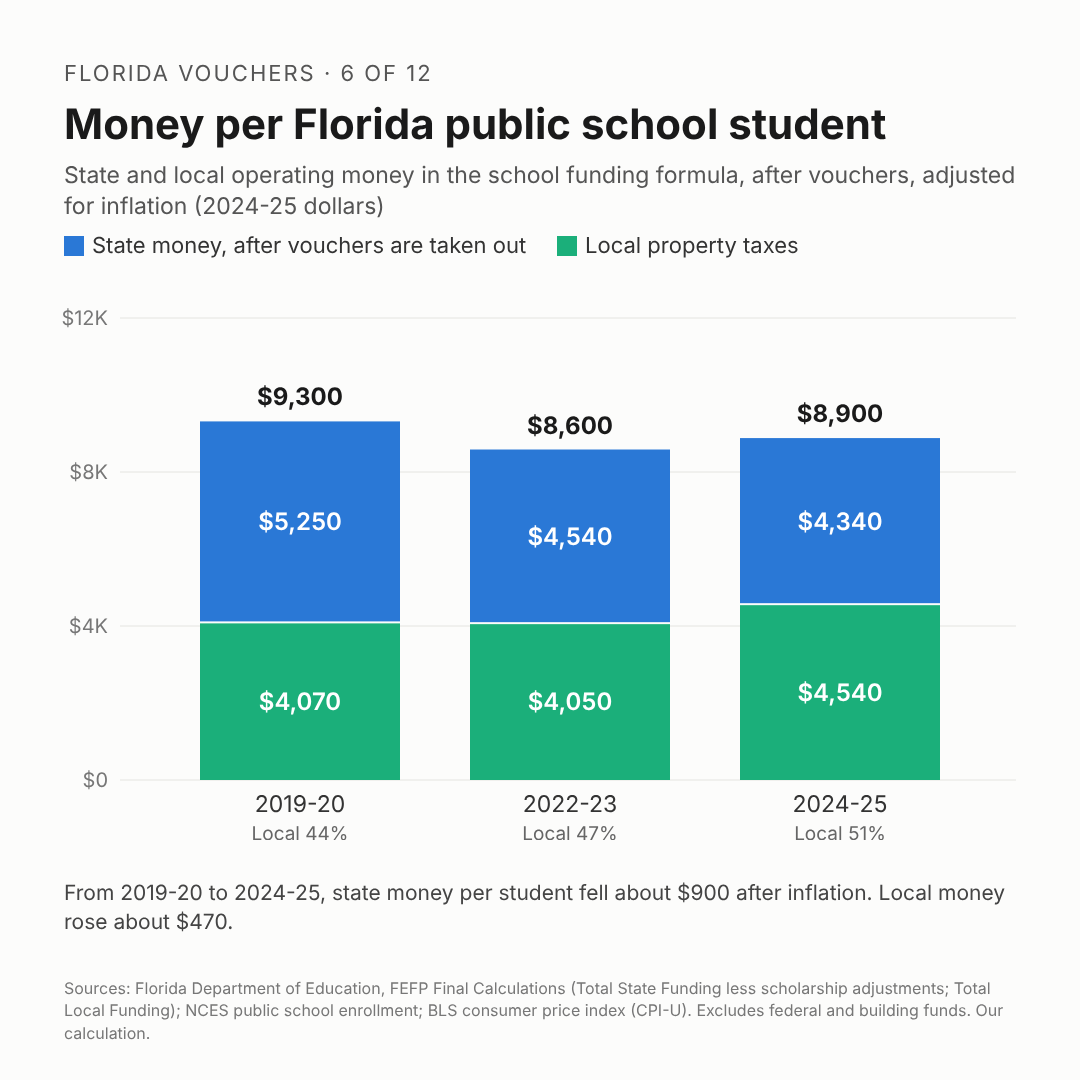
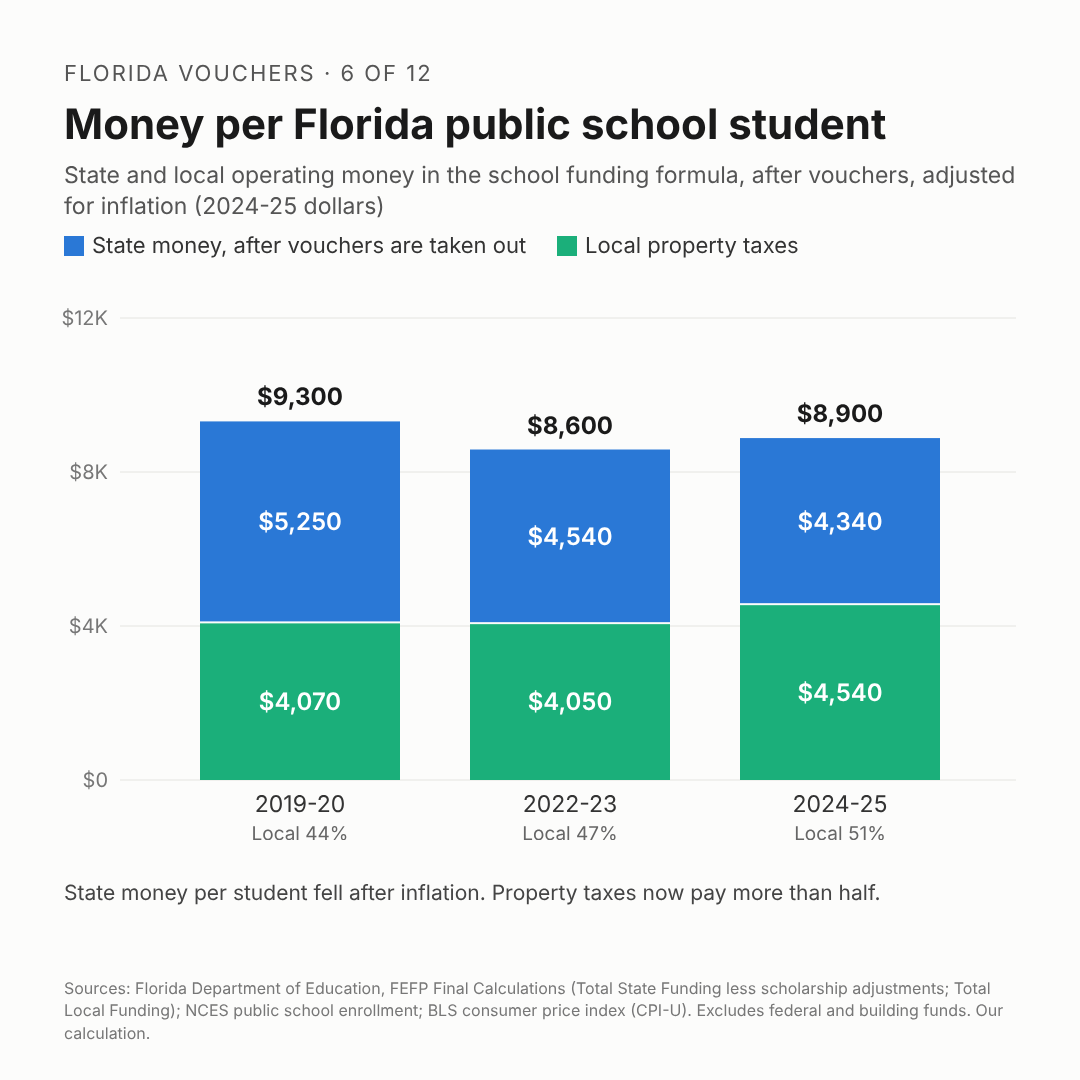
Post 6 draft 3: fewer numbers, simpler explanation
Claude-Session: https://claude.ai/code/session_016LYyWm4MBRFt2tmnYoAYw5

Changed region(s): [[0.0611, 0.7944, 0.9167, 0.8556]]

diff --git a/series/florida-vouchers/06-money-per-student/post.md b/series/florida-vouchers/06-money-per-student/post.md
@@ -4,12 +4,12 @@ series: florida-vouchers
 number: 6
 status: draft
 image: image.png
-updated: 2026-11-05
+updated: 2026-11-06
 ---
 
 # Post 6 of 12: Public schools' money per student, and the property tax backstop
 
-Draft 2, 5 Nov 2026. Rewritten around the risk at RJ's request. Plain declarative prose, in date order. Parts: the post text, the first comment (sources), the fact-check table, the notes (details kept out of the main text), and the editor's notes. Image: [image.png](image.png).
+Draft 3, 6 Nov 2026. Fewer numbers, at RJ's request. Plain declarative prose, in date order. Parts: the post text, the first comment (sources), the fact-check table, the notes (details kept out of the main text), and the editor's notes. Image: [image.png](image.png).
 
 ---
 
@@ -19,25 +19,23 @@ Florida vouchers, 6 of 12
 
 Florida's Public Schools Now Lean on Rising Property Values
 
-Since 2019, vouchers have taken almost all of the new state money for Florida's schools. Public schools held close to even because local property taxes rose with property values. That works only as long as values keep rising and school taxes stay in place.
+Since 2019, vouchers have taken almost all of the new state money for Florida's schools. Public schools held close to even only because local property taxes rose with property values. That works only as long as values keep rising and school taxes stay in place.
 
-In 2019-20, Florida's school funding formula gave public schools about $9,300 per student, in 2024-25 dollars. The state paid 56 percent and local school property taxes paid the rest. Each year, lawmakers set the formula's total and decide how much of it property taxes must raise. The state pays the rest.
+Florida pays for public schools with a mix of state money and local property taxes. Each year, lawmakers set the total and decide how much of it property taxes must raise. The state pays the rest. Vouchers come out of the state's part.
 
-Over the next five years, the state's school money rose $3.1 billion, according to the Department of Education. Vouchers took $2.8 billion of it. The state money left for public schools rose $270 million, or 2 percent. Prices rose about 24 percent over the same years. The number of public school students stayed about the same, at 2.86 million, according to federal data.
+From 2019-20 to 2024-25, the state's school money rose $3.1 billion. Vouchers took $2.8 billion of it, according to the Department of Education. What was left for public schools barely grew, while prices rose by about a quarter. The number of public school students stayed about the same.
 
-Property taxes filled most of the gap. The value of property for school taxes rose by two-thirds. Lawmakers raised the property tax they require from districts from $7.9 billion to $10.4 billion, even as the tax rate fell by about a fifth. With districts' own taxes added, local money for public schools rose $3.6 billion, or 38 percent. These dollar figures are not adjusted for inflation.
+Over the same years, property values rose by about two-thirds. Lawmakers lowered the school tax rate, but not as fast as values rose, so property taxes brought in much more. That made up most of what the state did not add. By 2024-25, property taxes paid more than half of public schools' money. In 2019-20, they had paid less than half.
 
-After inflation, the state's money per public school student fell from about $5,250 to $4,340. Local money rose from about $4,070 to $4,540. In 2024-25, property taxes paid 51 percent. These per-student figures are our calculation from the department's final funding reports, federal enrollment counts and the federal consumer price index.
+In all, money per public school student fell about 5 percent after inflation, by our calculation from state and federal data. Most of that drop came by 2022-23, when inflation was high and before vouchers were open to every child.
 
-In all, money per student fell about 5 percent, to about $8,900. Most of the drop came by 2022-23, when inflation was high and before vouchers were open to every child. Since then, the total has risen a little, because property taxes grew.
+The cushion has limits. If property values stop rising, lawmakers must add state money or let money per student fall. And when money runs short during a year, the law pays vouchers in full and cuts what districts get, Senate staff wrote in 2025.
 
-The cushion has limits. If property values flatten, lawmakers must add state money or let money per student fall. Vouchers are paid first: when the formula's money runs short during a year, the law pays vouchers in full and cuts what districts get, Senate staff wrote in 2025.
+This year, Gov. Ron DeSantis pushed a constitutional amendment to cut homeowners' property taxes. Lawmakers changed it so that it does not apply to school taxes. Voters approved it on Nov. 3.
 
-This year, Gov. Ron DeSantis pushed a constitutional amendment to cut homeowners' property taxes. In June, lawmakers changed it so that it does not apply to school taxes. Voters approved it on Nov. 3.
+Sen. Danny Burgess, a Zephyrhills Republican who chairs the Senate's budget committee for public schools, said in May that the new budget "increases per student funding by $150," a figure not adjusted for inflation. Andrew Spar, president of the Florida Education Association, the state teachers union, said in 2025: "Draining dollars out of public schools leaves our public schools short."
 
-Sen. Danny Burgess, a Zephyrhills Republican who chairs the Senate's budget committee for public schools, said in May that the new budget "increases per student funding by $150." That is about 1.6 percent, before inflation. Andrew Spar, president of the Florida Education Association, the state teachers union, said in 2025: "Draining dollars out of public schools leaves our public schools short."
-
-In 2019-20, the state paid most of public schools' money. By 2024-25, property taxes paid more, and the state's part per student was about a sixth lower after inflation. The next post looks at what this means for a school district, and whether it can cut its costs when students leave.
+In 2019-20, the state paid most of the cost of public schools. Now property owners pay more than half. The next post looks at what this means for a school district, and whether it can cut its costs when students leave.
 
 Sources are in the first comment.
 
@@ -119,6 +117,13 @@ Method for every per-student figure: (Total State Funding less the scholarship a
 ---
 
 ## Editor's notes
+
+**Draft 3 (6 Nov 2026, RJ: "too many numbers. explain things simply."):**
+- Cut from the text (all still in the fact-check table): $9,300 and the 56 percent for 2019-20; the $270 million and 2 percent; 2.86 million students; the $7.9 and $10.4 billion required tax; the rate's fall by a fifth; the $3.6 billion and 38 percent; the per-student state and local figures; $8,900; 51 percent (now "more than half"); 1.6 percent; "a sixth lower".
+- The formula is four short sentences, including that vouchers come out of the state's part.
+- Kept: $3.1 billion and $2.8 billion, prices up about a quarter, values up about two-thirds, the 5 percent fall per student.
+- Image note changed to match: "Property taxes now pay more than half."
+- About 430 words.
 
 **Draft 2 (5 Nov 2026, RJ: "I am not sure what the point is... what are the implications or risks?"):**
 - New headline and point: public schools held close to even only because property taxes rose with values; that cushion has limits.

diff --git a/README.md b/README.md
@@ -20,4 +20,4 @@ Each `post.md` starts with front matter (title, series, number, status, image, u
 
 ## Series
 
-- [Florida's voucher programs](series/florida-vouchers/plan.md): a 12-post series for legislators in other states. Post 1: [How Florida Went From Vouchers for a Few Children to Vouchers for Every Child](series/florida-vouchers/01-how-florida-got-here/post.md). Post 2 (draft): [Who Gets Florida's Vouchers, and Where Were They Before?](series/florida-vouchers/02-who-gets-vouchers/post.md). Post 3 (draft): [Charter Schools and Home Schooling](series/florida-vouchers/03-charters-and-home-schooling/post.md). Post 4 (draft): [Religious Schools and Florida's Vouchers](series/florida-vouchers/04-religious-schools/post.md). Post 5 (draft 5): [Do Florida's Vouchers Save Money?](series/florida-vouchers/05-what-vouchers-cost/post.md). Post 6 (draft 2): [Florida's Public Schools Now Lean on Rising Property Values](series/florida-vouchers/06-money-per-student/post.md).
+- [Florida's voucher programs](series/florida-vouchers/plan.md): a 12-post series for legislators in other states. Post 1: [How Florida Went From Vouchers for a Few Children to Vouchers for Every Child](series/florida-vouchers/01-how-florida-got-here/post.md). Post 2 (draft): [Who Gets Florida's Vouchers, and Where Were They Before?](series/florida-vouchers/02-who-gets-vouchers/post.md). Post 3 (draft): [Charter Schools and Home Schooling](series/florida-vouchers/03-charters-and-home-schooling/post.md). Post 4 (draft): [Religious Schools and Florida's Vouchers](series/florida-vouchers/04-religious-schools/post.md). Post 5 (draft 5): [Do Florida's Vouchers Save Money?](series/florida-vouchers/05-what-vouchers-cost/post.md). Post 6 (draft 3): [Florida's Public Schools Now Lean on Rising Property Values](series/florida-vouchers/06-money-per-student/post.md).
